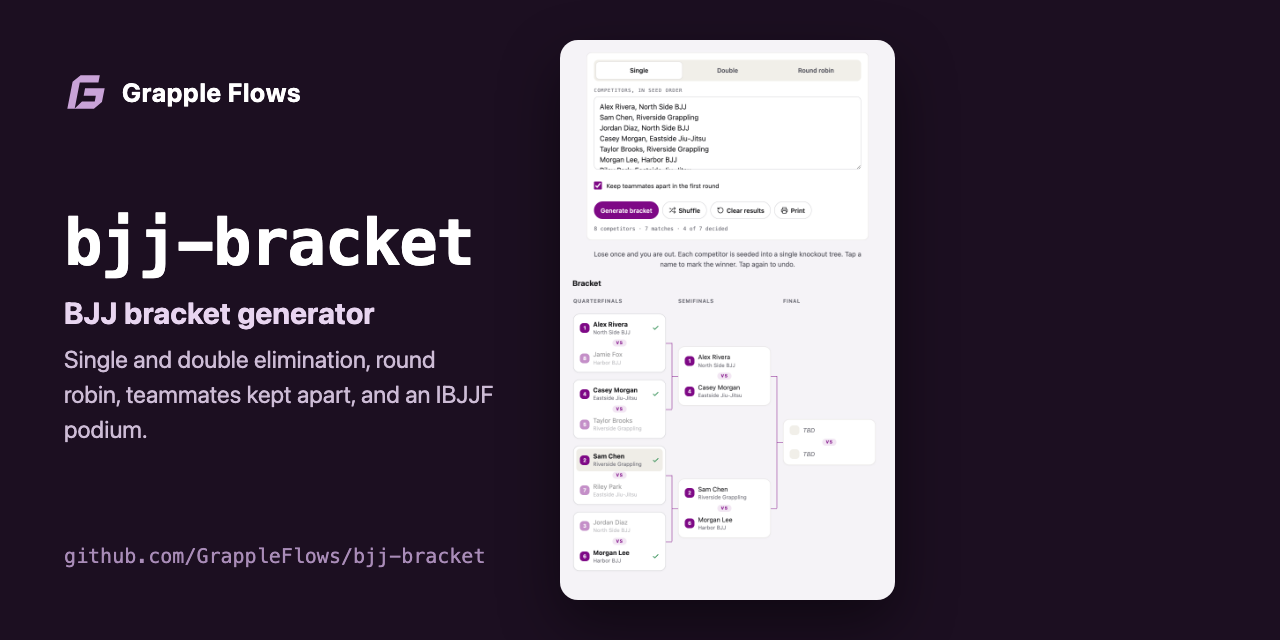
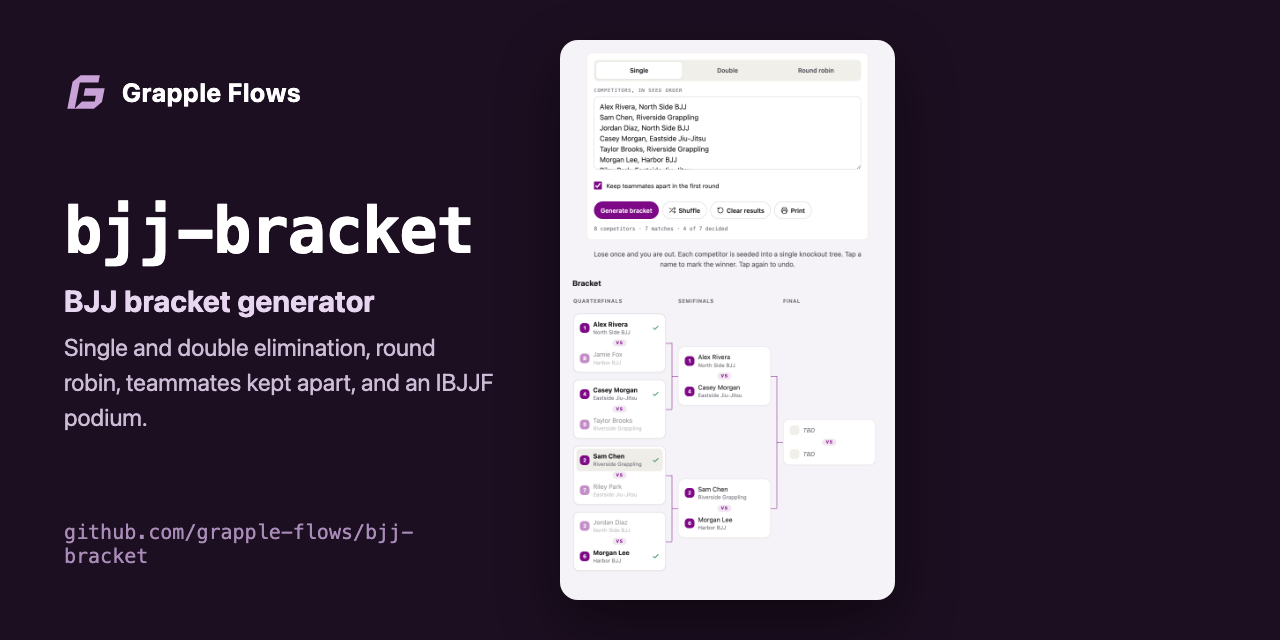
Point links at the renamed org: github.com/grapple-flows

Changed region(s): [[0.0312, 0.3125, 0.4062, 0.6875], [0.0312, 0.8125, 0.375, 0.9062]]

diff --git a/demo/index.html b/demo/index.html
@@ -73,7 +73,7 @@
     <header>
       <h1>BJJ bracket generator</h1>
       <p>A demo of the <code>&lt;bjj-bracket&gt;</code> web component. Paste names and teams, pick a format, and tap winners.</p>
-      <p>The hosted version, with share links, is at <a href="https://grappleflows.com/brackets?utm_source=github&amp;utm_medium=referral&amp;utm_campaign=bjj-bracket&amp;ref=github">grappleflows.com/brackets</a>. Source and docs: <a href="https://github.com/GrappleFlows/bjj-bracket">github.com/GrappleFlows/bjj-bracket</a>.</p>
+      <p>The hosted version, with share links, is at <a href="https://grappleflows.com/brackets?utm_source=github&amp;utm_medium=referral&amp;utm_campaign=bjj-bracket&amp;ref=github">grappleflows.com/brackets</a>. Source and docs: <a href="https://github.com/grapple-flows/bjj-bracket">github.com/grapple-flows/bjj-bracket</a>.</p>
     </header>
 
     <bjj-bracket format="single" storage-key="bjj-bracket-demo" entrants="Alex Rivera, North Side BJJ

diff --git a/README.md b/README.md
@@ -4,7 +4,7 @@ A free BJJ tournament bracket generator: single elimination, double elimination,
 
 Made by [Grapple Flows](https://grappleflows.com). Use it hosted at [grappleflows.com/brackets](https://grappleflows.com/brackets), or run it on your own site or in your own code.
 
-![bjj-bracket web component showing an 8-competitor single elimination bracket with teammates kept apart and winners advanced](https://raw.githubusercontent.com/GrappleFlows/bjj-bracket/main/docs/screenshot.png)
+![bjj-bracket web component showing an 8-competitor single elimination bracket with teammates kept apart and winners advanced](https://raw.githubusercontent.com/grapple-flows/bjj-bracket/main/docs/screenshot.png)
 
 This package has two parts:
 
@@ -316,9 +316,9 @@ The build writes `dist/index.js` (library), `dist/bjj-bracket.js` (library plus 
 
 ## Related
 
-- [bjj-timer](https://github.com/GrappleFlows/bjj-timer): a BJJ round timer.
-- [bjj-scoreboard](https://github.com/GrappleFlows/bjj-scoreboard): a BJJ scoreboard.
-- [bjj-data](https://github.com/GrappleFlows/bjj-data): IBJJF and ADCC weight classes, age divisions, legal techniques, and belt requirements as JSON and TypeScript.
+- [bjj-timer](https://github.com/grapple-flows/bjj-timer): a BJJ round timer.
+- [bjj-scoreboard](https://github.com/grapple-flows/bjj-scoreboard): a BJJ scoreboard.
+- [bjj-data](https://github.com/grapple-flows/bjj-data): IBJJF and ADCC weight classes, age divisions, legal techniques, and belt requirements as JSON and TypeScript.
 
 ## About Grapple Flows
 
